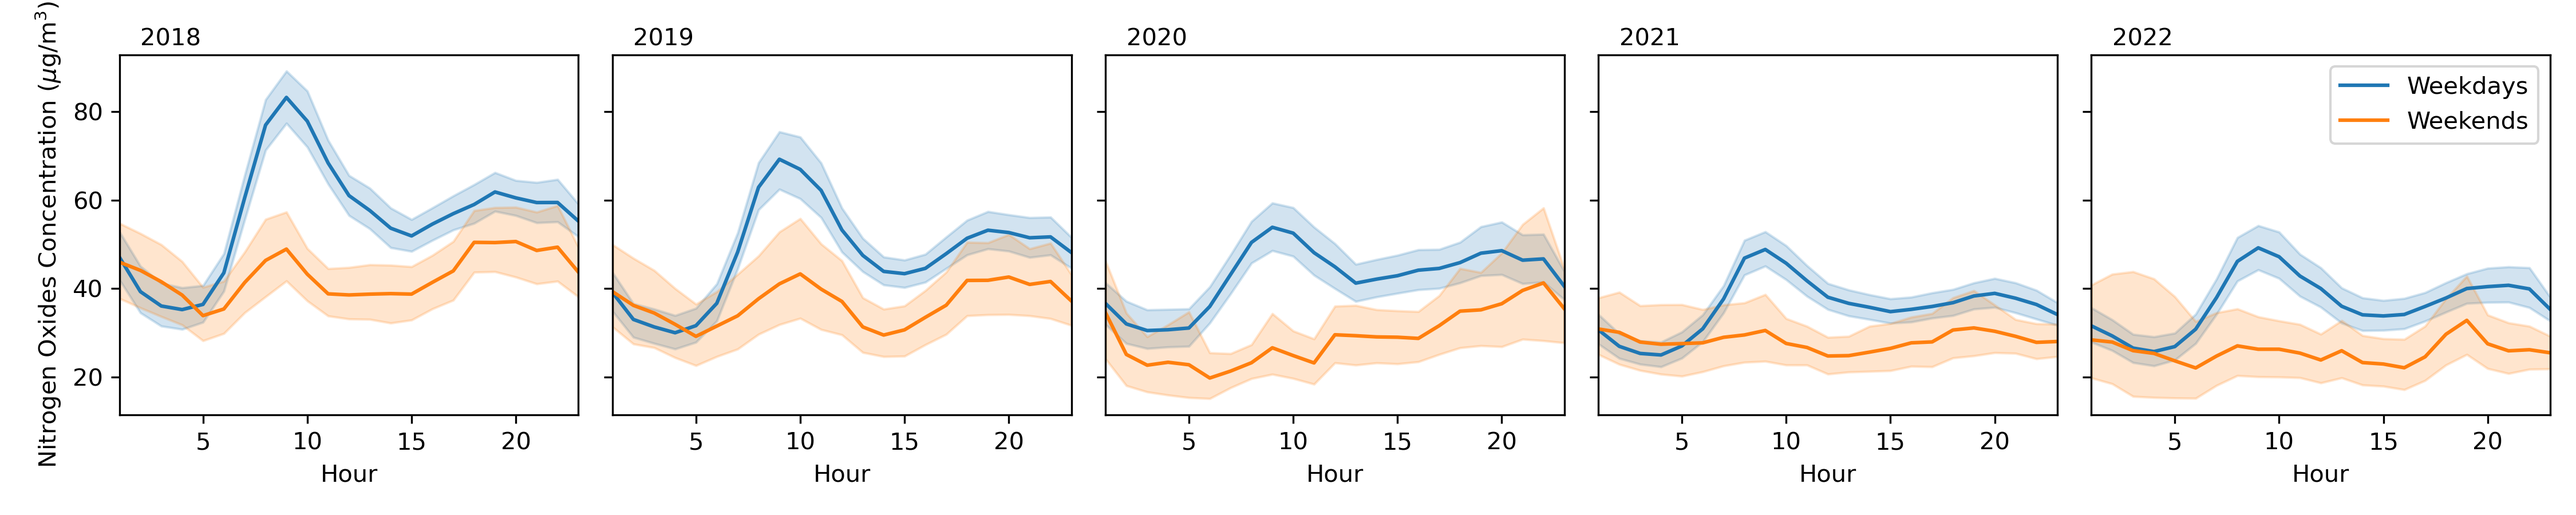
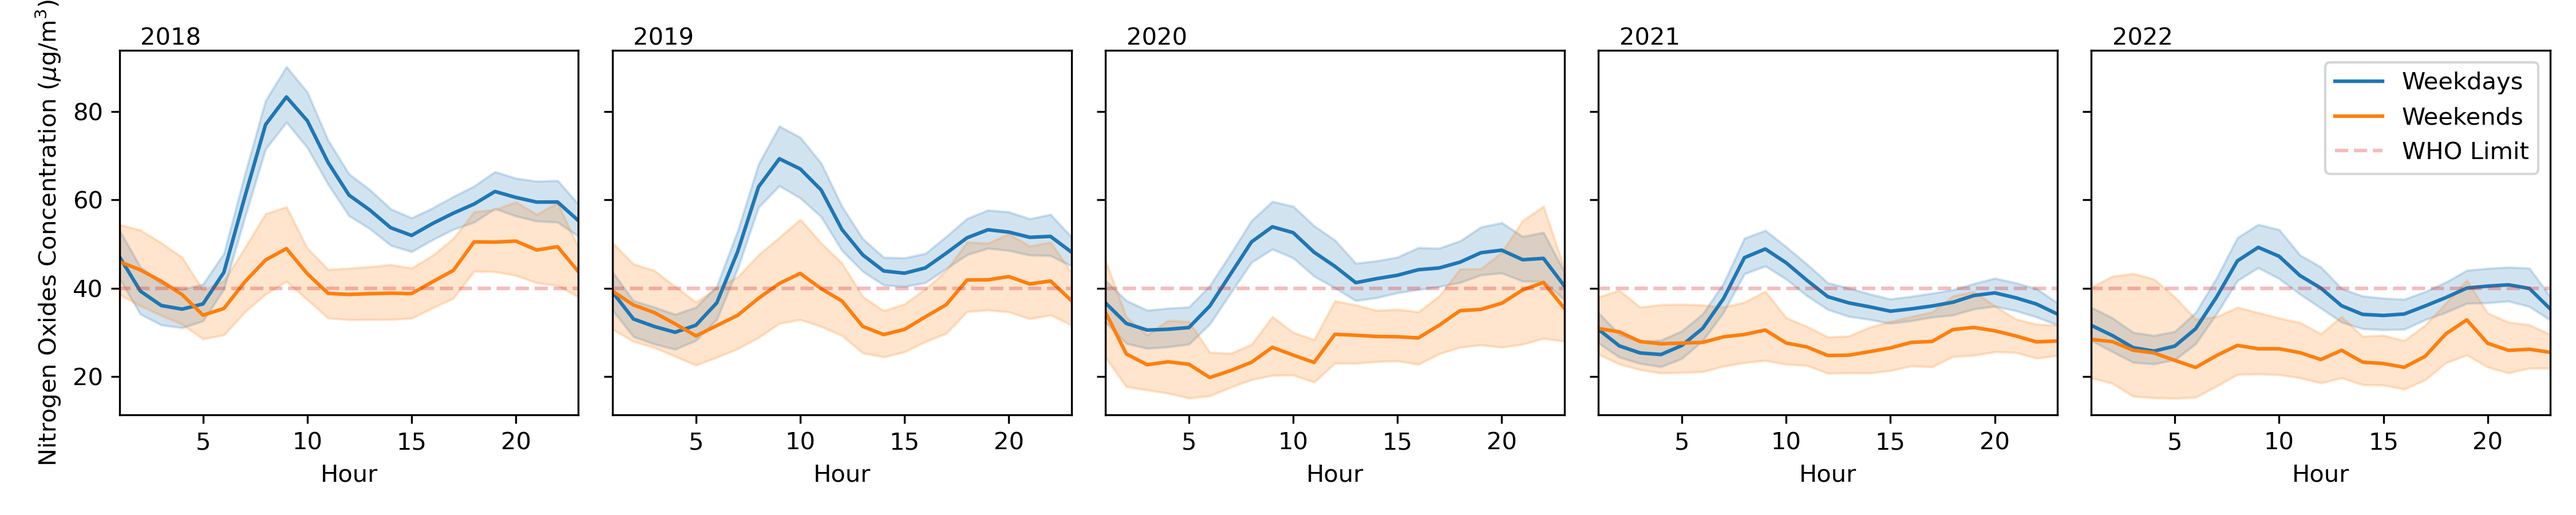
added lines

diff --git a/Plotting.py b/Plotting.py
@@ -68,6 +68,7 @@ def plot1(df):
         ax.set_ylabel(fr'Nitrogen Oxides Concentration ($\mu$g/m$^3$)')
         ax.text(2, 95, f'{i + 2018}')
         ax.set_xlim(1, 23)
+        ax.plot((0, 24), (40, 40), label='WHO Limit', color='C3', alpha=0.3, ls='dashed')
         ax.legend()
         if i != 4:
             ax.get_legend().remove()
@@ -83,6 +84,7 @@ def plot2(df):
     values = ['PM10 particulate matter (Hourly measured)', 'PM2.5 particulate matter (Hourly measured)',
               'Ozone', 'Nitrogen oxides as nitrogen dioxide']
     names = [r'PM$_{10}$', r'PM$_{2.5}$', 'Ozone', r'NO$_x$']
+    limits = [20, 5, 100, 40]
     for i, ax in enumerate(axs):
         start, stop, end = 2008, 2019, 2023
         df_temp = df
@@ -110,7 +112,7 @@ def plot2(df):
         ax.text(1998.5, bottom + (top - bottom) / 40, f'{a1.round(2)}', fontsize=8, color='C0')
         ax.text(2020, bottom + (top - bottom) / 40, f'{a3.round(2)}', fontsize=8, color='C2')
         ax.set_xlim(1992, 2023)
-
+        ax.plot((0, 2024), (limits[i], limits[i]), label='WHO Limit', color='C3', alpha=0.3, ls='dashed')
         if i == 1:
             ax.text(2010, bottom + (top - bottom) / 40, f'{a2.round(2)}', fontsize=8, color='C1')
             first, last = ydata[list(xdata).index(start)], ydata[list(xdata).index(start+5)]
@@ -182,8 +184,8 @@ def plot4(df):
 def main():
     main_df = add_extra_info(get_data())
 
-    #plot1(main_df)
-    plot2(main_df)
+    plot1(main_df)
+    #plot2(main_df)
 
     plt.show()
 
